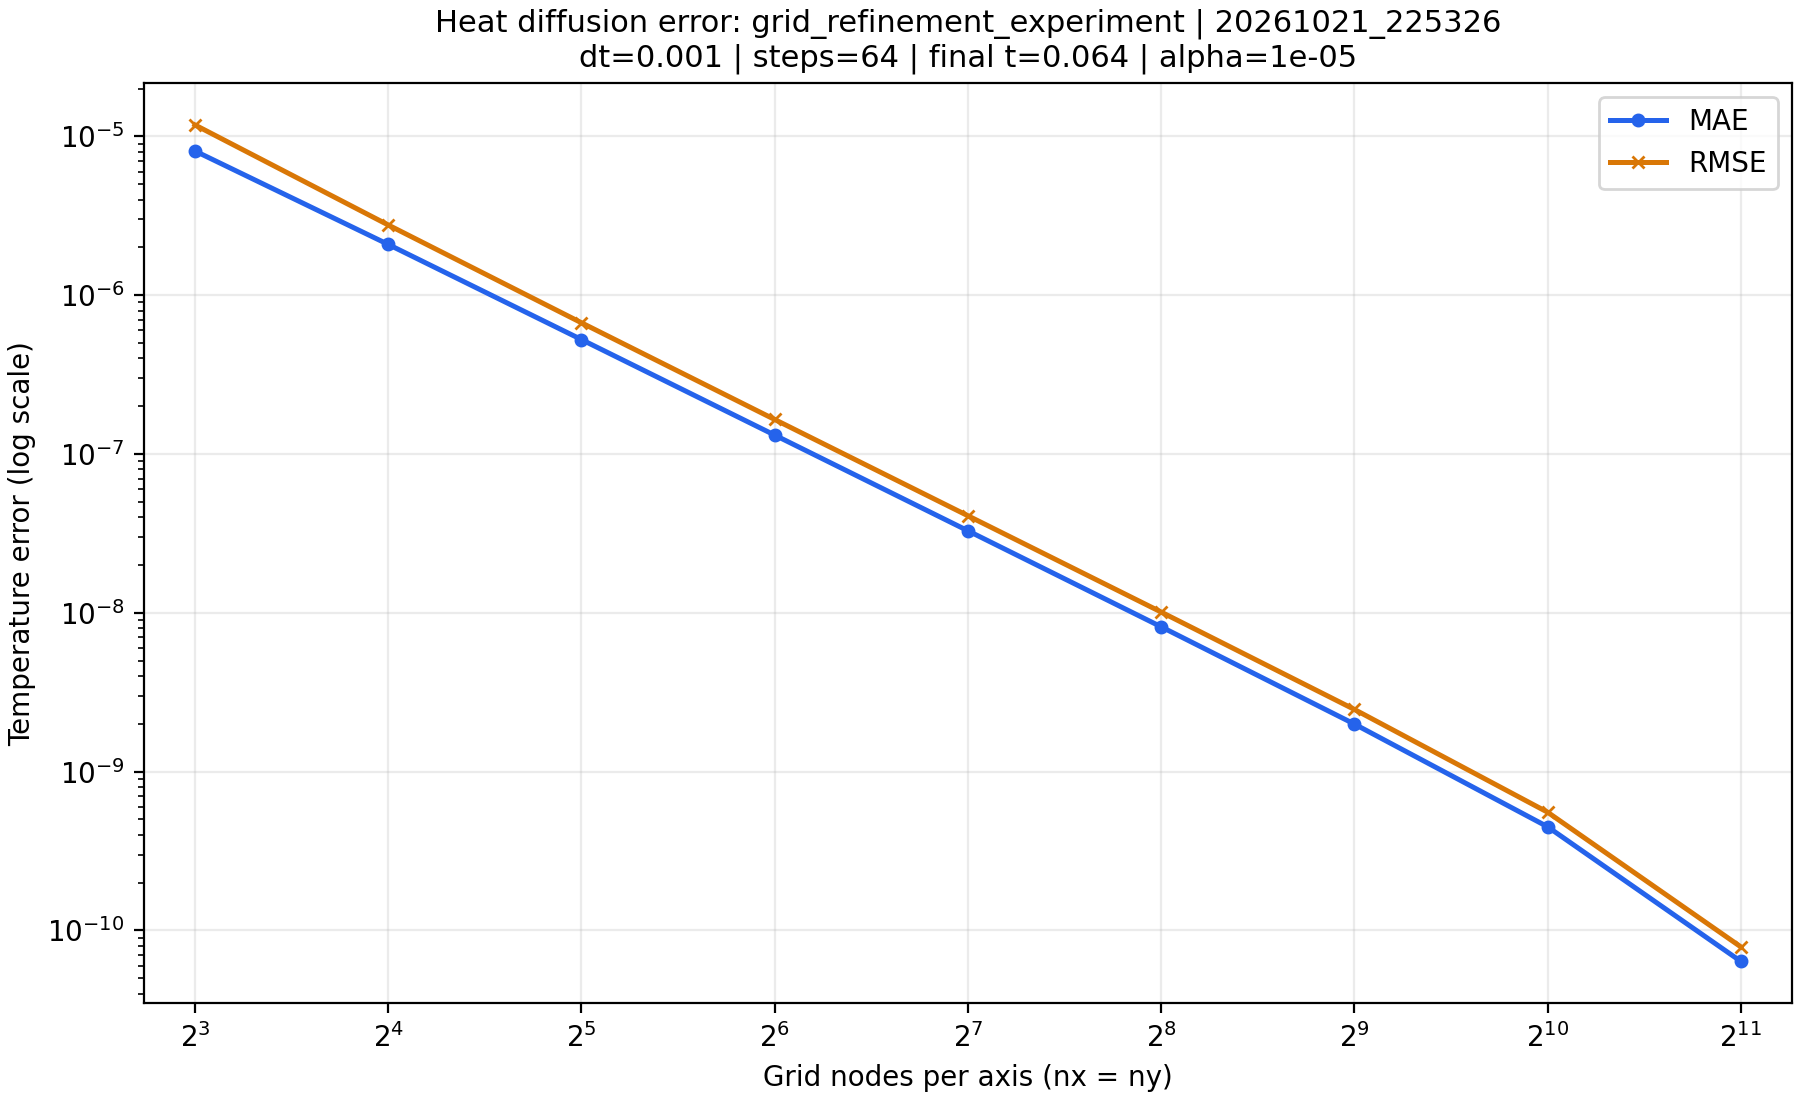
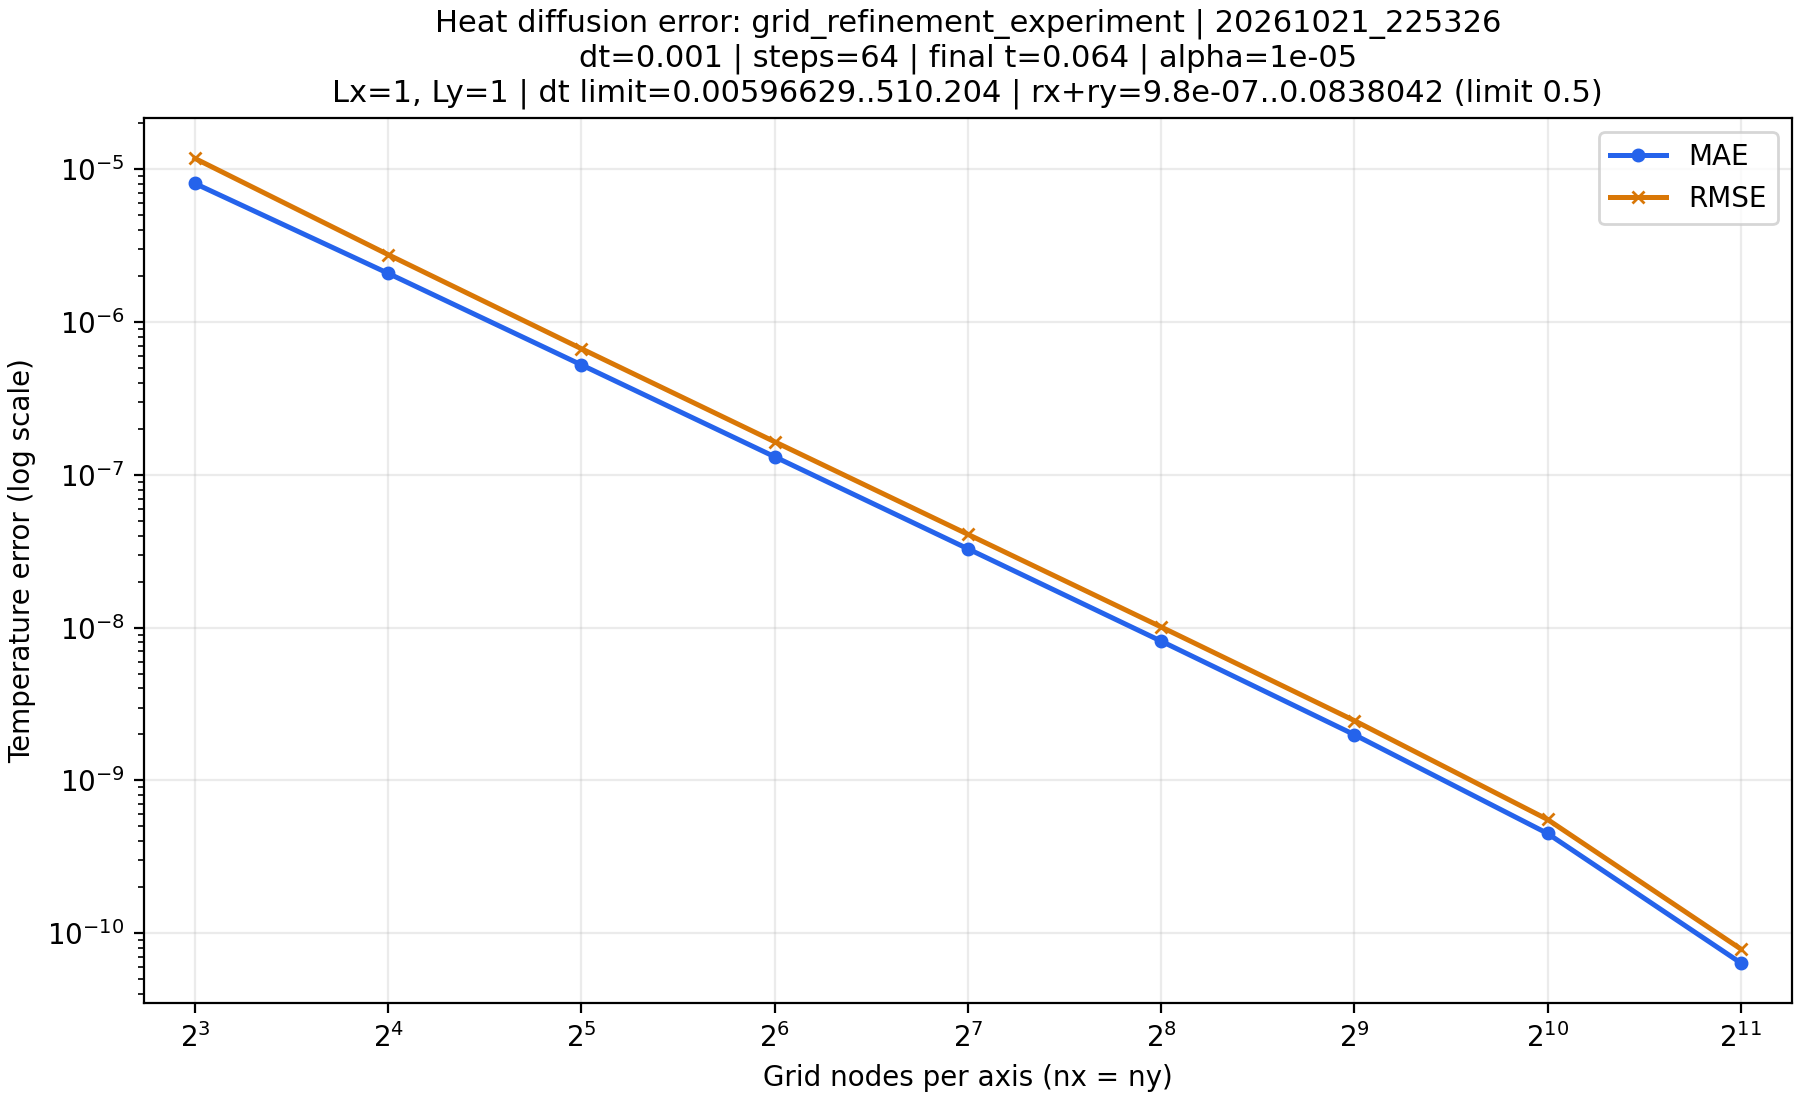
feat(project02): 添加固定终止时刻的时间步细化实验与绘图

diff --git a/Project02_heat_equation/benchmarks/heat_benchmark.cpp b/Project02_heat_equation/benchmarks/heat_benchmark.cpp
@@ -34,7 +34,7 @@ heat_diffusion::Grid2D default_grid{
 
 // 默认设置时间步 dt <= 0.09537
 HeatDiffusionConfig default_config{
-    default_grid, heat_diffusion::InitialField::SineMode, 128, 1e-5, 1, 9, 0.01,
+    default_grid, heat_diffusion::InitialField::SineMode, 128, 1e-5, 64, 9, 0.01,
 };
 
 enum class ExperimentType { UnstableTimeStep, GridRefinement, TimeStepRefinement };
@@ -98,6 +98,10 @@ HeatDiffusionConfig grid_refinement_config{
     grid_refinement_grid, heat_diffusion::InitialField::SineMode, 128, 1e-5, 64, 9, 0.001,
 };
 
+HeatDiffusionConfig time_step_refinement_config{
+    default_grid, heat_diffusion::InitialField::SineMode, 128, 1e-5, 64, 9, 0.05,
+};
+
 static ErrorMetrics benchmark(const int steps, const double dt, const double thermal_diffusivity,
                               const heat_diffusion::TemperatureGrid& initial_temperature_field) {
     double time = dt * steps;
@@ -111,36 +115,50 @@ static ErrorMetrics benchmark(const int steps, const double dt, const double the
     return compute_error_metrics(analytical_temperature_field, numerical_temperature_field);
 }
 
-static ErrorMetrics run_mode(HeatDiffusionConfig& experience_config,
+static ErrorMetrics run_mode(HeatDiffusionConfig& benchmark_config,
                              const ExperimentType& experiment_type,
                              heat_diffusion::TemperatureGrid& initial_temperature_field,
                              std::ofstream& csv) {
     switch (experiment_type) {
         case ExperimentType::UnstableTimeStep: {
-            experience_config.steps = experience_config.steps * 2;
-            std::cout << std::setprecision(10) << "steps: " << experience_config.steps << '\n';
+            benchmark_config.steps = benchmark_config.steps * 2;
+            std::cout << "steps: " << benchmark_config.steps << '\n';
 
-            csv << ' ' << ',' << ' ' << ',' << ' ' << ',' << ' ' << ',' << experience_config.steps
+            csv << ' ' << ',' << ' ' << ',' << ' ' << ',' << ' ' << ',' << benchmark_config.steps
                 << ',';
 
-            return benchmark(experience_config.steps, experience_config.dt,
-                             experience_config.thermal_diffusivity, initial_temperature_field);
+            return benchmark(benchmark_config.steps, benchmark_config.dt,
+                             benchmark_config.thermal_diffusivity, initial_temperature_field);
         }
 
         case ExperimentType::GridRefinement: {
-            experience_config.gird.nx = experience_config.gird.nx * 2;
-            experience_config.gird.ny = experience_config.gird.ny * 2;
-            experience_config.gird.dx = 1.0 / (experience_config.gird.nx - 1);
-            experience_config.gird.dy = 1.0 / (experience_config.gird.ny - 1);
+            benchmark_config.gird.nx = benchmark_config.gird.nx * 2;
+            benchmark_config.gird.ny = benchmark_config.gird.ny * 2;
+            benchmark_config.gird.dx = 1.0 / (benchmark_config.gird.nx - 1);
+            benchmark_config.gird.dy = 1.0 / (benchmark_config.gird.ny - 1);
             initial_temperature_field = heat_diffusion::make_temperature_grid(
-                experience_config.gird, experience_config.initial_field_type,
-                experience_config.initial_temperature, experience_config.thermal_diffusivity,
-                experience_config.dt);
-            std::cout << std::setprecision(10) << "nodes: " << experience_config.gird.nx << '\n';
-            csv << experience_config.gird.nx << ',' << experience_config.gird.ny << ',' << ' '
-                << ',' << ' ' << ',' << ' ' << ',';
-            return benchmark(experience_config.steps, experience_config.dt,
-                             experience_config.thermal_diffusivity, initial_temperature_field);
+                benchmark_config.gird, benchmark_config.initial_field_type,
+                benchmark_config.initial_temperature, benchmark_config.thermal_diffusivity,
+                benchmark_config.dt);
+            std::cout << "nodes: " << benchmark_config.gird.nx << '\n';
+            csv << benchmark_config.gird.nx << ',' << benchmark_config.gird.ny << ',' << ' ' << ','
+                << ' ' << ',' << ' ' << ',';
+            return benchmark(benchmark_config.steps, benchmark_config.dt,
+                             benchmark_config.thermal_diffusivity, initial_temperature_field);
+        }
+
+        case ExperimentType::TimeStepRefinement: {
+            benchmark_config.dt = benchmark_config.dt * 0.5;
+            benchmark_config.steps = benchmark_config.steps * 2;
+            initial_temperature_field = heat_diffusion::make_temperature_grid(
+                benchmark_config.gird, benchmark_config.initial_field_type,
+                benchmark_config.initial_temperature, benchmark_config.thermal_diffusivity,
+                benchmark_config.dt);
+            std::cout << "dt: " << benchmark_config.dt << '\n';
+            csv << ' ' << ',' << ' ' << ',' << ' ' << ',' << benchmark_config.dt << ','
+                << benchmark_config.steps << ',';
+            return benchmark(benchmark_config.steps, benchmark_config.dt,
+                             benchmark_config.thermal_diffusivity, initial_temperature_field);
         }
     }
     throw std::invalid_argument("错误的实验类型");
@@ -177,11 +195,11 @@ static void run(const std::string& data, const std::string& experiment_name,
     std::cout << "steps: " << experience_config.steps << '\n';
     std::cout << "*******************          *********************" << '\n';
 
-    HeatDiffusionConfig bench_config = experience_config;
+    HeatDiffusionConfig benchmark_config = experience_config;
 
     for (int i = 0; i < experiment_count; ++i) {
         ErrorMetrics result =
-            run_mode(bench_config, experiment_type, initial_temperature_field, csv);
+            run_mode(benchmark_config, experiment_type, initial_temperature_field, csv);
 
         std::cout << "mae: " << result.mean_absolute_error << '\n';
         std::cout << "rmse: " << result.root_mean_square_error << '\n';
@@ -195,10 +213,10 @@ static void run(const std::string& data, const std::string& experiment_name,
 int main() {
     auto data = common::make_run_timestamp();
     std::string experiment_name = "error_experiment";
-    std::string filename = "grid_refinement_experiment";
+    std::string filename = "time_step_refinement_experiment";
 
-    const ExperimentType experiment_type = ExperimentType::GridRefinement;
+    const ExperimentType experiment_type = ExperimentType::TimeStepRefinement;
 
-    error_experiment::run(data, experiment_name, filename, error_experiment::grid_refinement_config,
-                          experiment_type);
+    error_experiment::run(data, experiment_name, filename,
+                          error_experiment::time_step_refinement_config, experiment_type);
 }

diff --git a/Project02_heat_equation/benchmarks/scripts/plot_error_experiment.py b/Project02_heat_equation/benchmarks/scripts/plot_error_experiment.py
@@ -1,4 +1,4 @@
-"""Plot MAE/RMSE for a named step scan or grid-refinement experiment."""
+"""Plot MAE/RMSE for a named step, grid, or time-step scan."""
 
 import argparse
 import csv
@@ -12,7 +12,10 @@ import matplotlib
 
 EXPERIMENT_DIR = Path(__file__).resolve().parent.parent / "error_experiment"
 # Change this filename prefix to select the default experiment (no timestamp).
-DEFAULT_EXPERIMENT = "grid_refinement_experiment"
+DEFAULT_EXPERIMENT = "time_step_refinement_experiment"
+# Physical side lengths for nx/ny CSVs; both endpoints are grid nodes.
+DOMAIN_LENGTH_X = 1.0
+DOMAIN_LENGTH_Y = 1.0
 
 
 def select_result(result_dir, experiment, requested_timestamp=None):
@@ -100,8 +103,38 @@ def read_results(path):
     return rows, skipped
 
 
+def format_range(values):
+    low, high = min(values), max(values)
+    return f"{low:.6g}" if low == high else f"{low:.6g}..{high:.6g}"
+
+
+def stability_details(rows):
+    """Use recorded spacings or endpoint-node spacing on the configured domain."""
+    if not all(math.isfinite(value) and value > 0
+               for value in (DOMAIN_LENGTH_X, DOMAIN_LENGTH_Y)):
+        raise ValueError("Domain lengths must be finite and positive")
+    limits, sums = [], []
+    for row in rows:
+        if "dx" in row:
+            dx, dy = row["dx"], row["dy"]
+        else:
+            dx = DOMAIN_LENGTH_X / (row["nx"] - 1)
+            dy = DOMAIN_LENGTH_Y / (row["ny"] - 1)
+        rate = row["thermal_diffusivity"] * (1 / dx**2 + 1 / dy**2)
+        limit, stability_sum = 0.5 / rate, row["dt"] * rate
+        if not all(math.isfinite(value) and value > 0
+                   for value in (rate, limit, stability_sum)):
+            raise ValueError("Invalid stability coefficients")
+        limits.append(limit)
+        sums.append(stability_sum)
+    domain = ("recorded dx/dy" if "dx" in rows[0]
+              else f"Lx={DOMAIN_LENGTH_X:g}, Ly={DOMAIN_LENGTH_Y:g}")
+    return (f"{domain} | dt limit={format_range(limits)}"
+            f" | rx+ry={format_range(sums)} (limit 0.5)")
+
+
 def describe_plot(rows):
-    """Select the scanned variable and reject mixed grid/time parameter scans."""
+    """Select the scanned variable and describe the physical-time comparison."""
     first = rows[0]
     grid_fields = ("dx", "dy") if "dx" in first else ("nx", "ny")
     parameters = (*grid_fields, "thermal_diffusivity", "dt", "steps")
@@ -109,15 +142,7 @@ def describe_plot(rows):
     if varied <= {"steps"}:
         x_key, x_label = "steps", "Update steps"
         details = f"dt={first['dt']:g} | alpha={first['thermal_diffusivity']:g}"
-        if "dx" in first:
-            rate = first["thermal_diffusivity"] * (1 / first["dx"]**2 + 1 / first["dy"]**2)
-            dt_limit, stability_sum = 0.5 / rate, first["dt"] * rate
-            if not all(math.isfinite(value) and value > 0
-                       for value in (rate, dt_limit, stability_sum)):
-                raise ValueError("Invalid stability coefficients")
-            details += (f" | dt limit (from CSV)={dt_limit:.6g}"
-                        f"\nrx+ry={stability_sum:.6g} (limit 0.5)")
-        else:
+        if "nx" in first:
             details += f" | grid={first['nx']} x {first['ny']}"
     elif varied <= set(grid_fields):
         x_key = next(name for name in grid_fields if name in varied)
@@ -132,11 +157,30 @@ def describe_plot(rows):
             raise ValueError("Non-finite final physical time")
         details = (f"dt={first['dt']:g} | steps={first['steps']} | final t={time:g}"
                    f" | alpha={first['thermal_diffusivity']:g}")
+    elif "dt" in varied and varied <= {"dt", "steps"}:
+        x_key, x_label = "dt", "Time step dt"
+        times = [row["dt"] * row["steps"] for row in rows]
+        if not all(math.isfinite(time) and time > 0 for time in times):
+            raise ValueError("Final physical times must be finite and positive")
+        fixed_time = all(math.isclose(time, times[0], rel_tol=1e-8, abs_tol=1e-14)
+                         for time in times)
+        if "steps" in varied and not fixed_time:
+            raise ValueError("When dt and steps both change, dt * steps must stay fixed")
+        if fixed_time:
+            details = f"final t={times[0]:.6g} (fixed) | steps={format_range([r['steps'] for r in rows])}"
+        else:
+            details = (f"steps={first['steps']} (fixed)"
+                       f" | final t={format_range(times)} (varies)")
+            print("Note: dt varies with fixed steps, so final physical time varies; "
+                  "this is not a fixed-final-time convergence comparison.", file=sys.stderr)
+        if "nx" in first:
+            details += f" | grid={first['nx']} x {first['ny']}"
     else:
         raise ValueError(f"Unsupported simultaneous parameter changes: {sorted(varied)}; "
-                         "scan steps with a fixed grid, or refine the grid with fixed dt and steps")
+                         "scan steps, refine the grid at fixed dt/steps, or scan dt at a fixed grid")
     if len({row[x_key] for row in rows}) != len(rows):
         raise ValueError(f"Expected one measurement per {x_key}")
+    details += f"\n{stability_details(rows)}"
     return sorted(rows, key=lambda row: row[x_key]), x_key, x_label, details
 
 

diff --git a/Project02_heat_equation/benchmarks/README.md b/Project02_heat_equation/benchmarks/README.md
@@ -12,7 +12,7 @@ python Project02_heat_equation/benchmarks/scripts/plot_error_experiment.py
 在 [plot_error_experiment.py](scripts/plot_error_experiment.py) 顶部修改默认实验名即可选择常用实验，只填写文件名前缀，不带时间标识或 `.csv`：
 
 ```python
-DEFAULT_EXPERIMENT = "grid_refinement_experiment"
+DEFAULT_EXPERIMENT = "time_step_refinement_experiment"
 ```
 
 也可以临时用命令行覆盖，无需修改脚本：
@@ -20,6 +20,7 @@ DEFAULT_EXPERIMENT = "grid_refinement_experiment"
 ```powershell
 python Project02_heat_equation/benchmarks/scripts/plot_error_experiment.py --experiment unstable_dt_experiment
 python Project02_heat_equation/benchmarks/scripts/plot_error_experiment.py --experiment grid_refinement_experiment
+python Project02_heat_equation/benchmarks/scripts/plot_error_experiment.py --experiment time_step_refinement_experiment
 python Project02_heat_equation/benchmarks/scripts/plot_error_experiment.py --experiment base_line --timestamp 20261021_192300
 ```
 
@@ -40,18 +41,21 @@ python Project02_heat_equation/benchmarks/scripts/plot_error_experiment.py --exp
 
 - 固定网格、扩散系数和时间步，仅改变步数：横轴为 `steps`。
 - 固定扩散系数、时间步和步数，仅改变网格：横轴优先取变化的 `nx`（旧格式取 `dx`）；仅 y 方向变化时取 `ny` 或 `dy`。方形网格标注 `nx = ny`，等间距网格标注 `dx = dy`。标题注明固定步数与 `final t = dt * steps`。
+- 固定网格和扩散系数、改变时间步：横轴为 `dt`。步数固定时，标题显示变化的终止时刻范围，并提示这不是同一终止时刻的时间收敛比较。也支持同步调整步数、保持 `dt * steps` 不变的扫描，此时标题标注固定终止时刻；终止时刻一致性的相对容差为 `1e-8`，绝对容差为 `1e-14`。
 
-横轴以 2 为底取对数，纵轴为温度误差的对数。每个横坐标只允许一组测量。时间步与网格同时变化、时间步细化等其他扫描目前会明确报告不支持，避免错误地画成步数或网格扫描。
+横轴以 2 为底取对数，纵轴为温度误差的对数。每个横坐标只允许一组测量。网格与时间步同时变化等其他扫描会明确报告不支持，避免误用横轴。
 
 蓝色表示 MAE，橙色表示 RMSE。零值和非有限值无法作为普通对数坐标点：零值在图的下边缘标注，`inf`/`nan` 在上边缘标注，其标记高度不表示误差大小，曲线在这些位置断开。
 
-旧格式步数扫描的标题根据 CSV 参数计算显式五点差分的稳定条件 `rx + ry <= 0.5` 及时间步上限：
+当前矩形区域的两个方向长度均为 1。节点数格式的 CSV 使用脚本顶部的 `DOMAIN_LENGTH_X = 1.0`、`DOMAIN_LENGTH_Y = 1.0`，按包含两端点的网格计算 `dx = Lx/(nx-1)`、`dy = Ly/(ny-1)`；旧格式使用 CSV 已记录的 `dx、dy`。物理区域尺寸改变时需同步修改这两个常量。
+
+标题据此计算显式五点差分的稳定条件 `rx + ry <= 0.5` 及时间步上限：
 
 ```text
 rx + ry = thermal_diffusivity * dt * (1/dx^2 + 1/dy^2)
 dt_limit = 0.5 / (thermal_diffusivity * (1/dx^2 + 1/dy^2))
 ```
 
-这些值使用 CSV 中已舍入的参数。只有 `nx、ny` 的 CSV 没有记录物理区域长度，脚本不从节点数量推断 `dx、dy` 或稳定上限；网格扫描图也不标注单一稳定上限。
+这些值使用 CSV 中已舍入的参数与配置的物理区域长度。多个测量点的稳定上限或 `rx+ry` 不同时，标题展示其最小值到最大值。
 
 脚本只展示已有误差结果，不重新运行求解器，不验证不同网格的物理区域是否相同；RMSE 为 `inf` 也可能来自误差平方求和溢出，不能仅凭该指标判定温度数组已包含非有限值。
